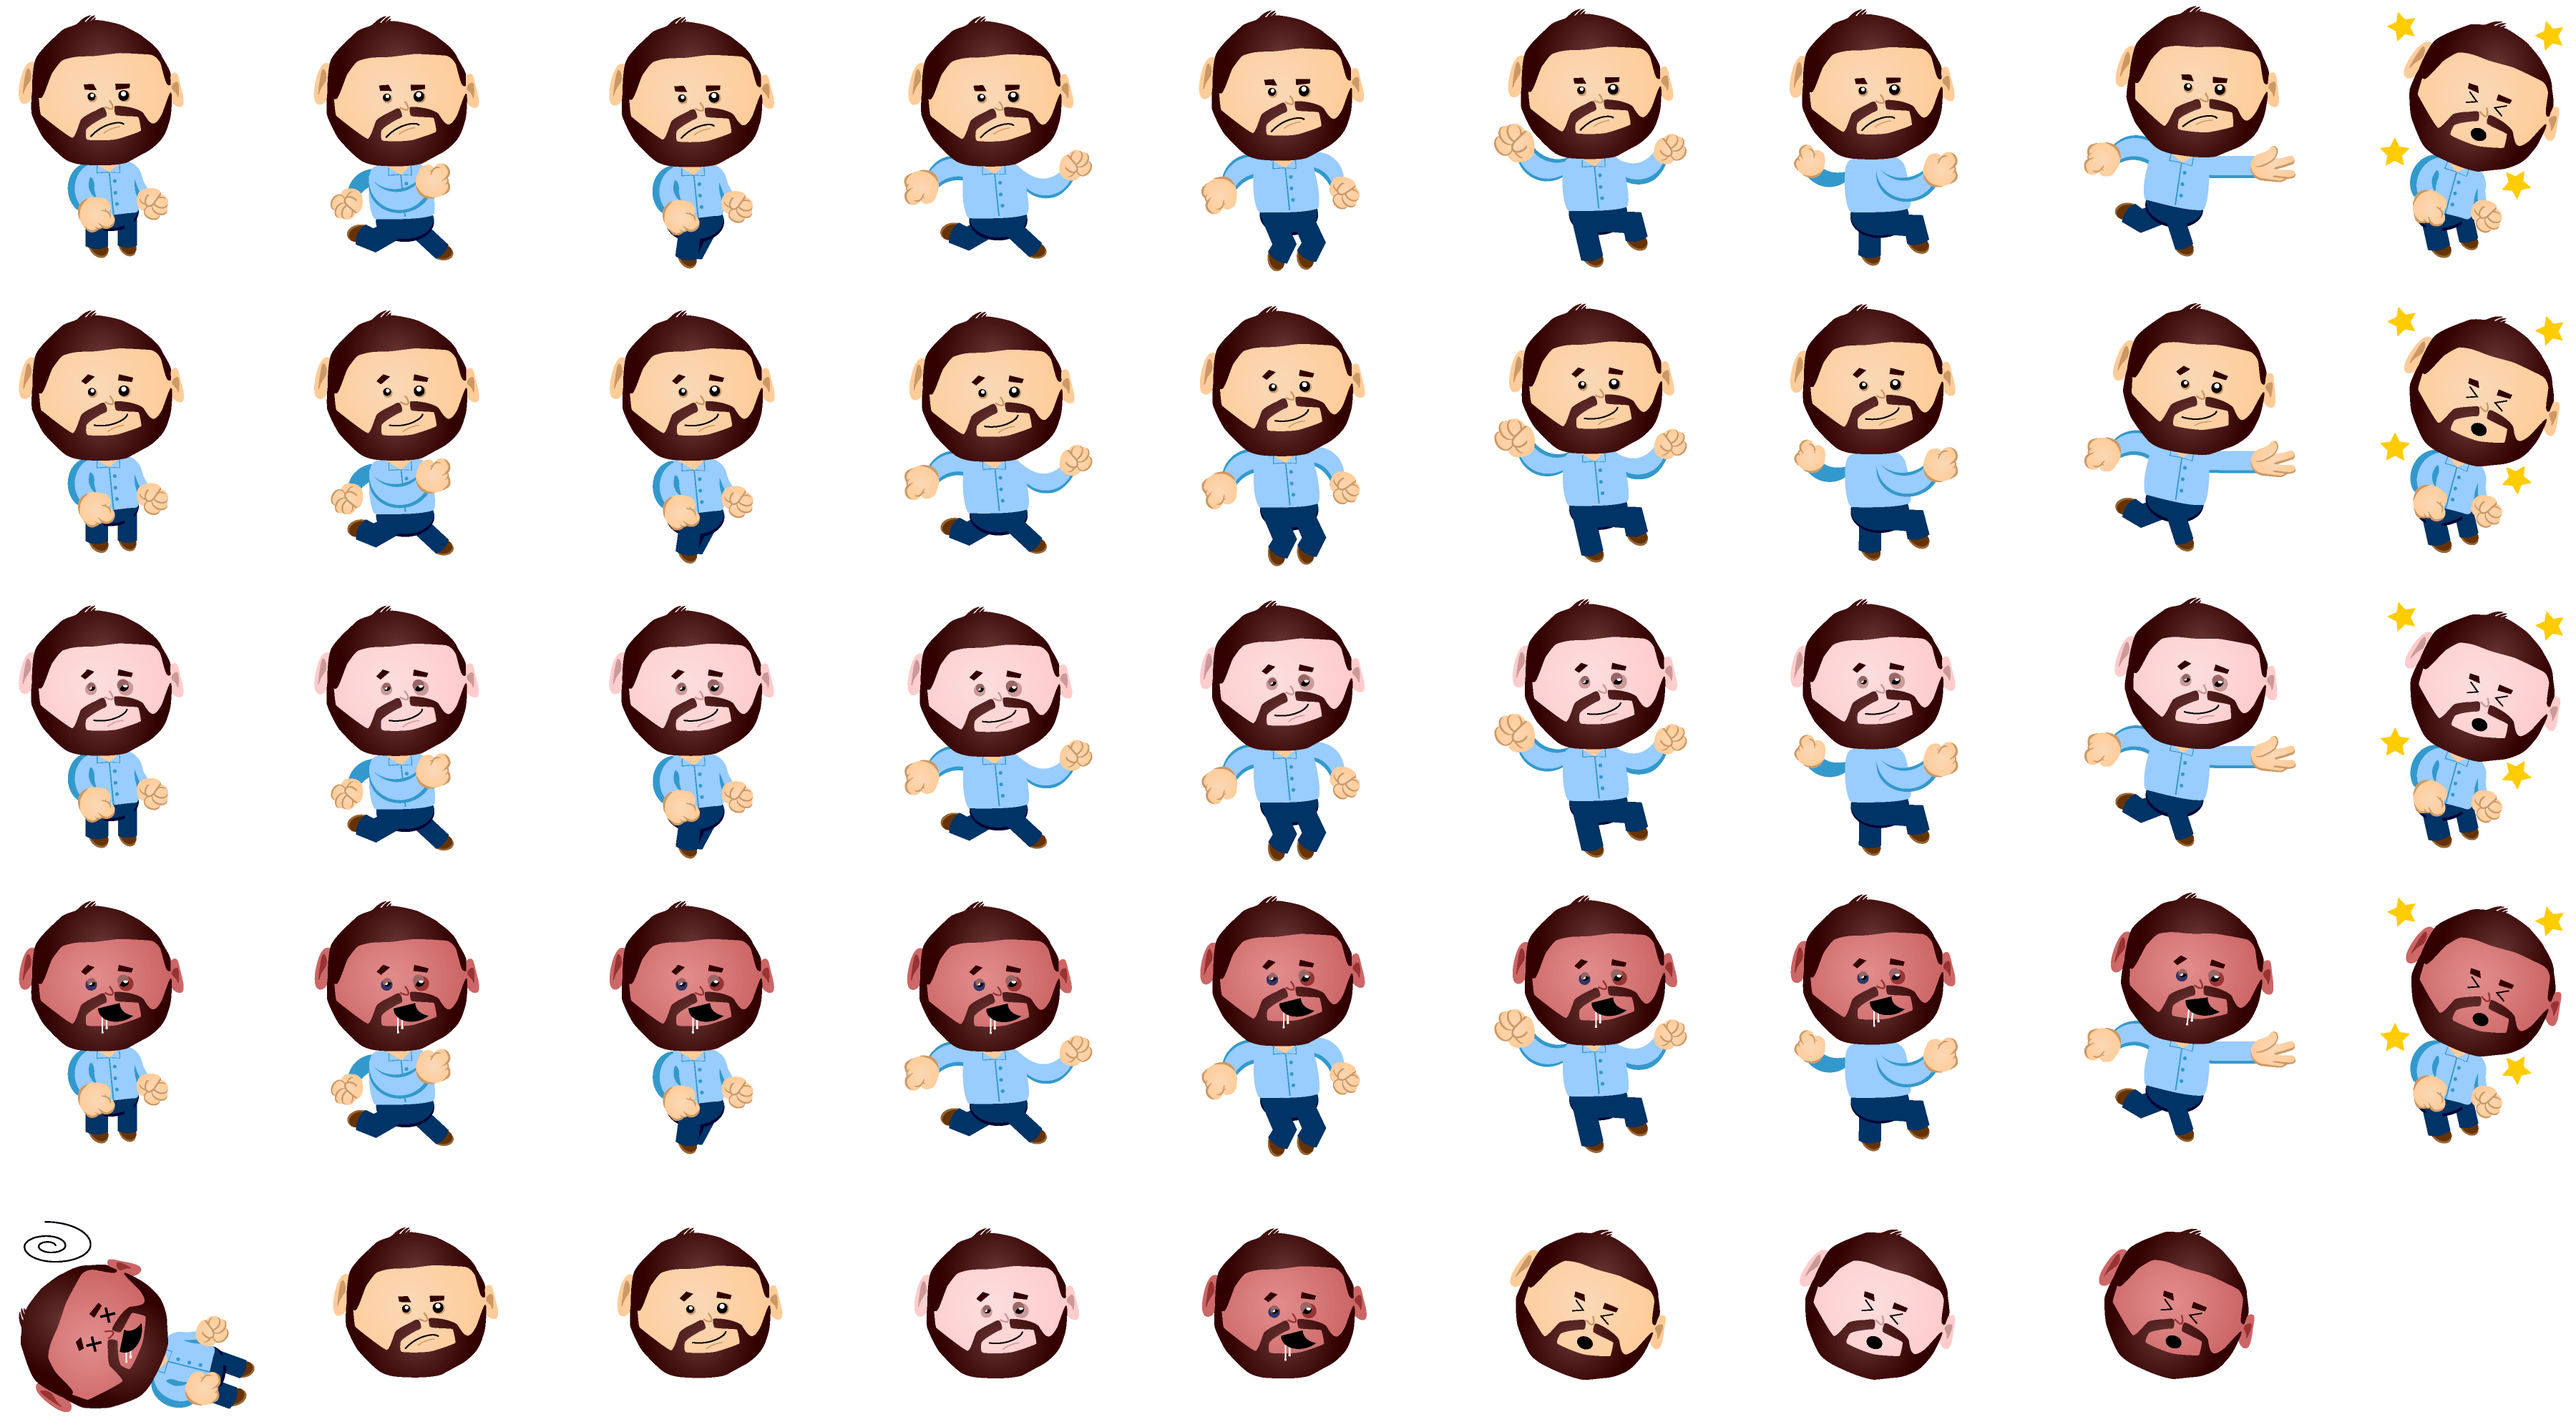
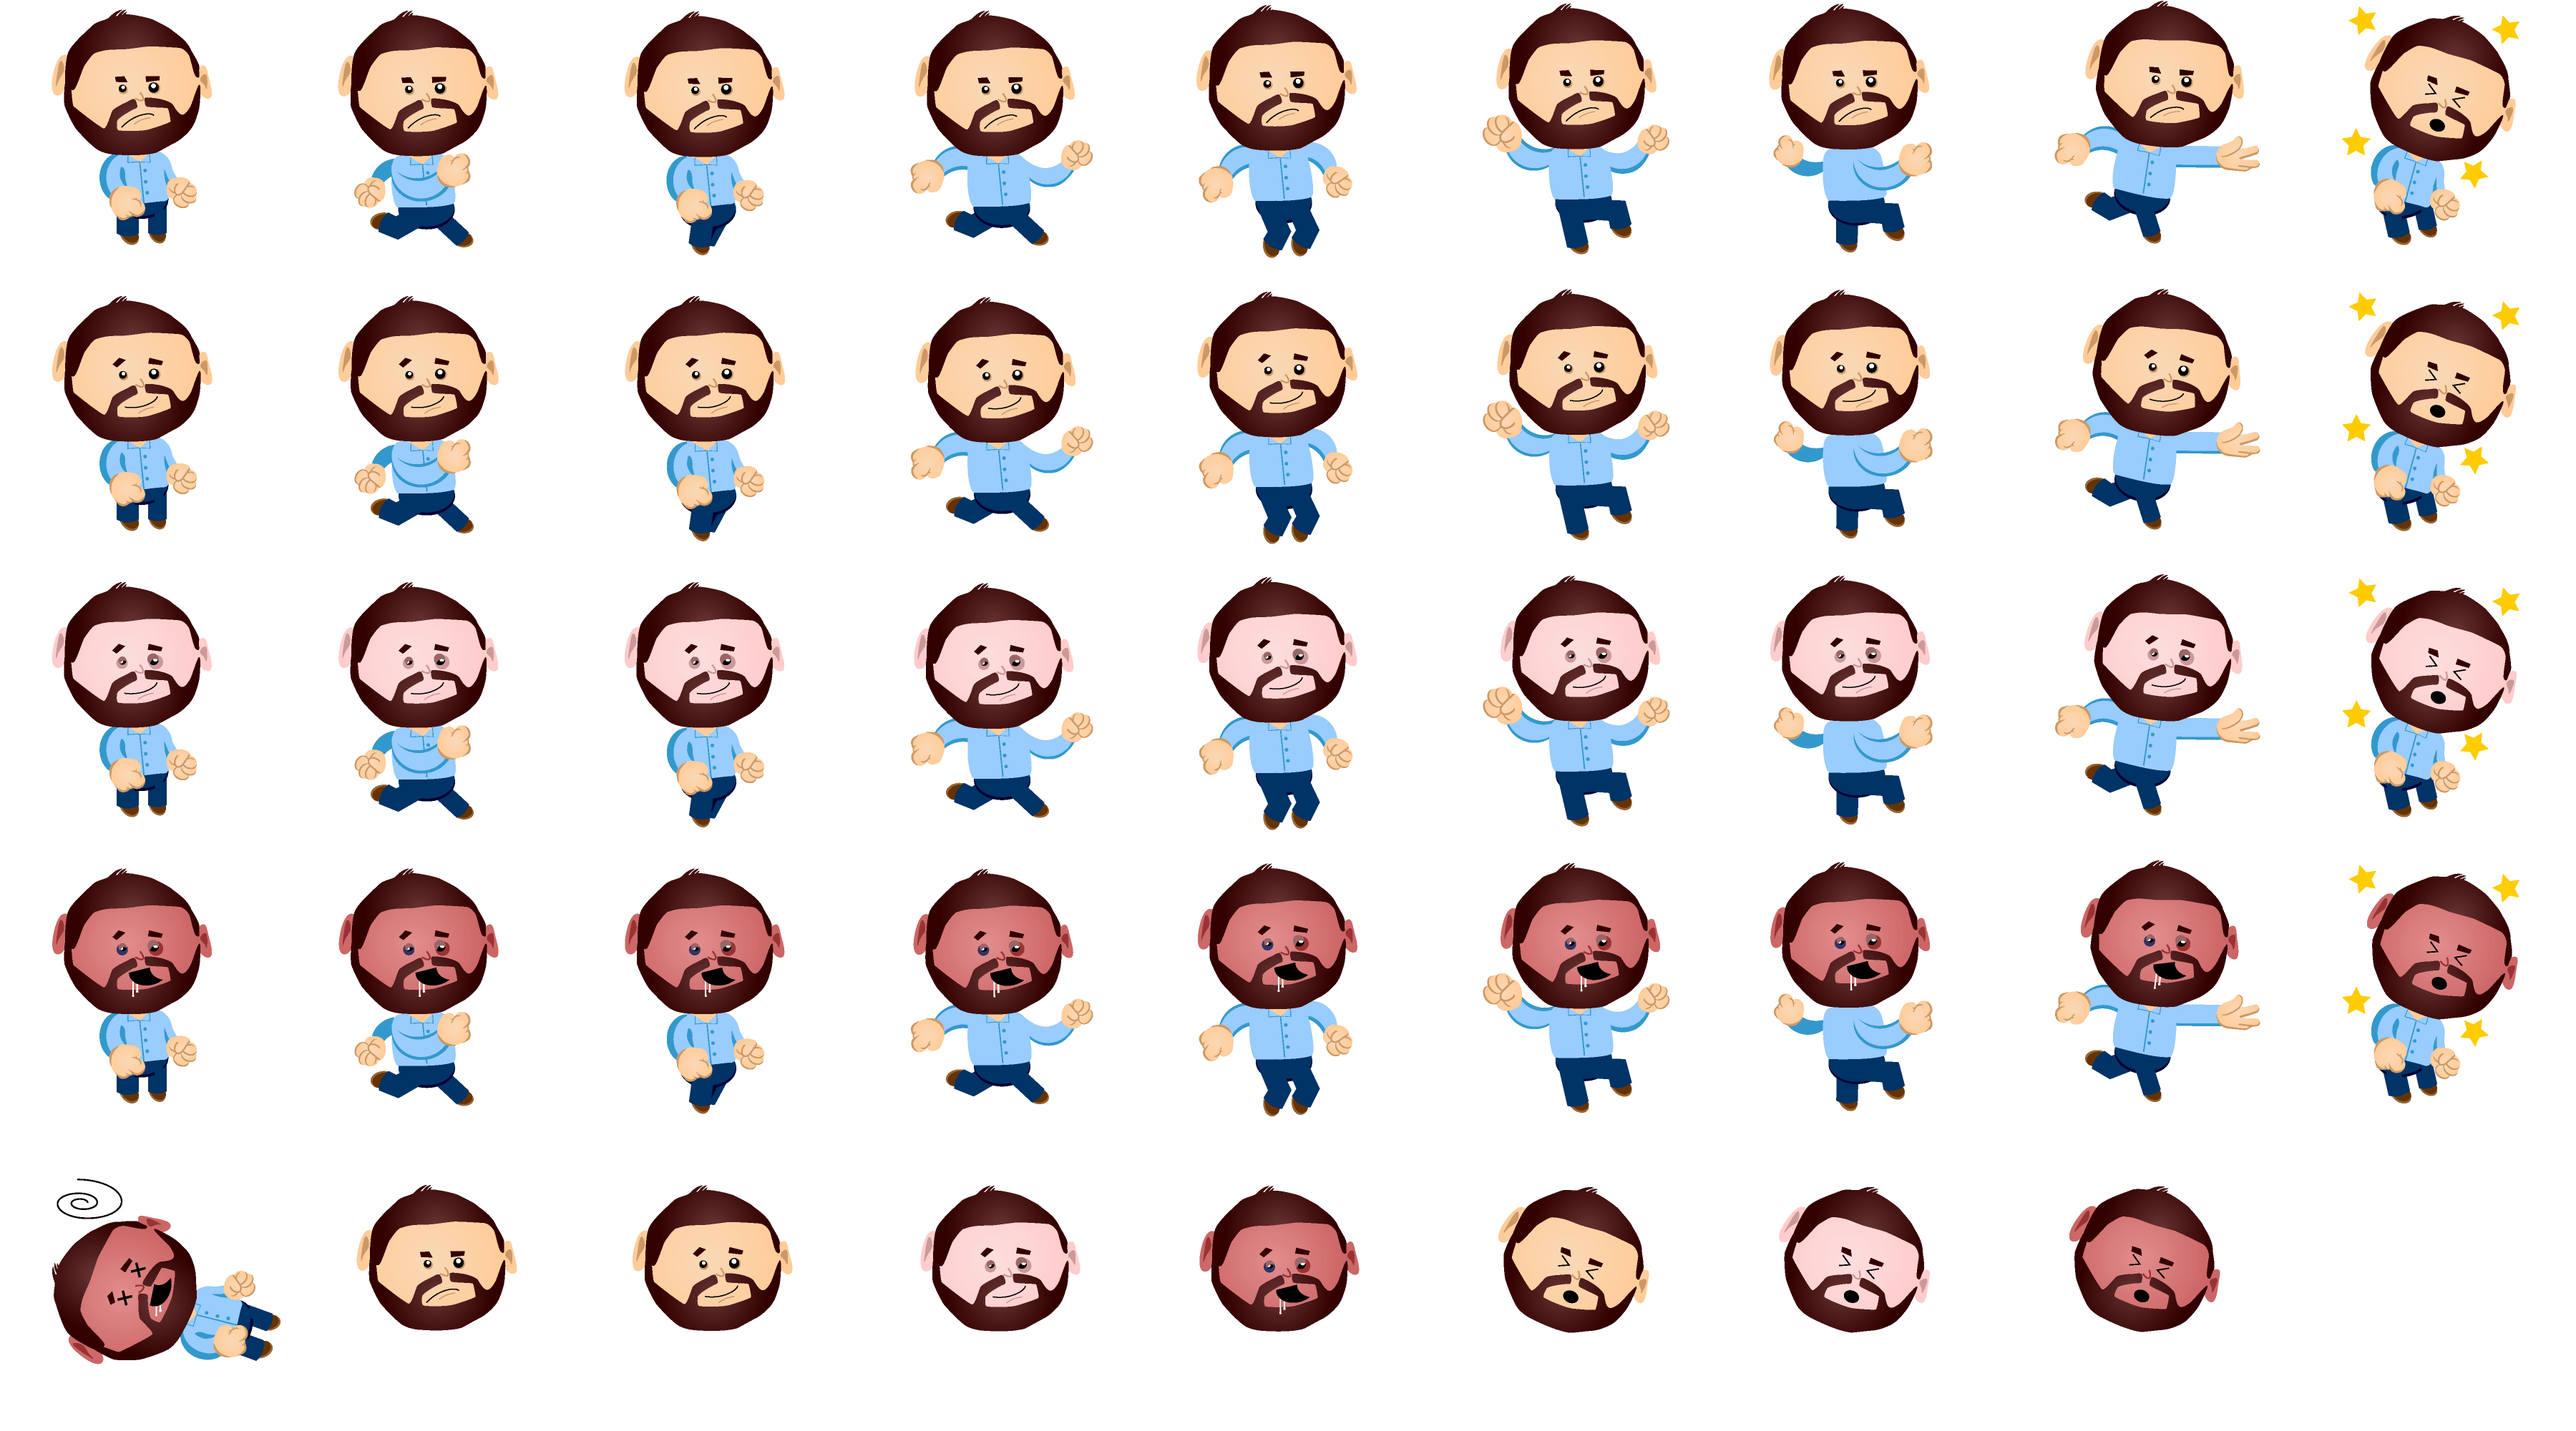
realigning actor sprites

diff --git a/game/core/types/Actor.js b/game/core/types/Actor.js
@@ -64,8 +64,9 @@
     var ctx = this.skin.getContext('2d');
     var scale = canvas.scale;
 
-    this.skin.width = sprite.width * scale;
-    this.skin.height = sprite.height * scale;
+    var dpr = this.skin.dpr = window.devicePixelRatio;
+    this.skin.width = sprite.width * scale * dpr;
+    this.skin.height = sprite.height * scale * dpr;
     this.skin.scale = sprite.scale;
 
     // render to offscreen canvas
@@ -80,15 +81,13 @@
       this[mirror] = this.renderToCanvas(img, sprite, scale, true);
     }
 
-    // DEBUG: render full skin
     /*
-    if (this.entity.state.private.class === 'Platform') {
-      this.skin.width = cached.width;
-      this.skin.height = cached.height;
-    }
+    // DEBUG: render full skin
+    this.skin.width = cached.width;
+    this.skin.height = cached.height;
     */
 
-    ctx.drawImage(cached, 0, 0, cached.width / 2, cached.height / 2);
+    ctx.drawImage(cached, 0, 0);
   };
 
   Actor.prototype.renderToCanvas = function(img, sprite, scale, mirror) {
@@ -96,10 +95,12 @@
     var ctx = buffer.getContext('2d');
 
     var ratio = img.width / img.height;
+    var dpr = this.skin.dpr;
 
-    // TODO: where is this 10 value coming from? is ratio being used correctly?
-    var width = buffer.width = sprite.width * sprite.scale * ratio * scale;
-    var height = buffer.height = sprite.height * sprite.scale * scale;
+    // round to whole pixel
+    // TODO: what is the role of sprite.scale?
+    var width = buffer.width = (sprite.width * sprite.scale * ratio * scale * dpr) + 0.5 | 0;
+    var height = buffer.height = (sprite.height * sprite.scale * scale * dpr) + 0.5 | 0;
 
     if (mirror) {
       ctx.translate(width, 0);
@@ -120,11 +121,11 @@
     var ctx = skin.getContext('2d');
 
     var cached = this.cached;
-    var xShift = this.frame * cached.width / this.xMax / 2
-    var yShift = yStart * cached.height / this.yMax / 2;
+    var xShift = this.frame * cached.width / this.xMax;
+    var yShift = yStart * cached.height / this.yMax;
 
     ctx.clearRect(0, 0, skin.width, skin.height);
-    ctx.drawImage(cached, -xShift, -yShift, cached.width / 2, cached.height / 2);
+    ctx.drawImage(cached, -xShift, -yShift);
   };
 
   Actor.prototype.drawFrame = function(yStart, scale) {
@@ -156,10 +157,10 @@
     }
 
     this.frame = start + delta;
-    xShift = this.frame * cached.width / this.xMax / 2;
-    yShift = yStart * cached.height / this.yMax / 2;
+    xShift = this.frame * cached.width / this.xMax;
+    yShift = yStart * cached.height / this.yMax;
 
-    ctx.drawImage(cached, -xShift, -yShift, cached.width / 2, cached.height / 2);
+    ctx.drawImage(cached, -xShift, -yShift);
   };
 
   Actor.prototype.update = function(yStart, scale) {
@@ -191,6 +192,13 @@
 
   Actor.prototype.draw = function(ctx, x, y, scale) {
     var state = this.entity.state.public;
+
+    var dpr = this.skin.dpr;
+    var width = (this.skin.width / dpr) + 0.5 | 0;
+    var height = (this.skin.height / dpr) + 0.5 | 0;
+
+    var halfWidth = (this.skin.width / dpr / 2) + 0.5 | 0;
+    var halfHeight = (this.skin.height / dpr / 2) + 0.5 | 0;
 
     var yStart = 0;
     var intoxication = state['intoxication'];
@@ -250,7 +258,11 @@
         break;
     }
 
-    ctx.drawImage(this.skin, x, y);
+    if (this.entity.state.private.class === 'Player') {
+      ctx.drawImage(this.skin, x - halfWidth, y - halfHeight + (halfHeight / 5) + 0.5 | 0, width, height);
+    } else {
+      ctx.drawImage(this.skin, x - halfWidth, y - halfHeight, width, height);
+    }
   };
 
   return Actor;

diff --git a/public/js/game/core/types/Actor.js b/public/js/game/core/types/Actor.js
@@ -64,8 +64,9 @@
     var ctx = this.skin.getContext('2d');
     var scale = canvas.scale;
 
-    this.skin.width = sprite.width * scale;
-    this.skin.height = sprite.height * scale;
+    var dpr = this.skin.dpr = window.devicePixelRatio;
+    this.skin.width = sprite.width * scale * dpr;
+    this.skin.height = sprite.height * scale * dpr;
     this.skin.scale = sprite.scale;
 
     // render to offscreen canvas
@@ -80,15 +81,13 @@
       this[mirror] = this.renderToCanvas(img, sprite, scale, true);
     }
 
-    // DEBUG: render full skin
     /*
-    if (this.entity.state.private.class === 'Platform') {
-      this.skin.width = cached.width;
-      this.skin.height = cached.height;
-    }
+    // DEBUG: render full skin
+    this.skin.width = cached.width;
+    this.skin.height = cached.height;
     */
 
-    ctx.drawImage(cached, 0, 0, cached.width / 2, cached.height / 2);
+    ctx.drawImage(cached, 0, 0);
   };
 
   Actor.prototype.renderToCanvas = function(img, sprite, scale, mirror) {
@@ -96,10 +95,12 @@
     var ctx = buffer.getContext('2d');
 
     var ratio = img.width / img.height;
+    var dpr = this.skin.dpr;
 
-    // TODO: where is this 10 value coming from? is ratio being used correctly?
-    var width = buffer.width = sprite.width * sprite.scale * ratio * scale;
-    var height = buffer.height = sprite.height * sprite.scale * scale;
+    // round to whole pixel
+    // TODO: what is the role of sprite.scale?
+    var width = buffer.width = (sprite.width * sprite.scale * ratio * scale * dpr) + 0.5 | 0;
+    var height = buffer.height = (sprite.height * sprite.scale * scale * dpr) + 0.5 | 0;
 
     if (mirror) {
       ctx.translate(width, 0);
@@ -120,11 +121,11 @@
     var ctx = skin.getContext('2d');
 
     var cached = this.cached;
-    var xShift = this.frame * cached.width / this.xMax / 2
-    var yShift = yStart * cached.height / this.yMax / 2;
+    var xShift = this.frame * cached.width / this.xMax;
+    var yShift = yStart * cached.height / this.yMax;
 
     ctx.clearRect(0, 0, skin.width, skin.height);
-    ctx.drawImage(cached, -xShift, -yShift, cached.width / 2, cached.height / 2);
+    ctx.drawImage(cached, -xShift, -yShift);
   };
 
   Actor.prototype.drawFrame = function(yStart, scale) {
@@ -156,10 +157,10 @@
     }
 
     this.frame = start + delta;
-    xShift = this.frame * cached.width / this.xMax / 2;
-    yShift = yStart * cached.height / this.yMax / 2;
+    xShift = this.frame * cached.width / this.xMax;
+    yShift = yStart * cached.height / this.yMax;
 
-    ctx.drawImage(cached, -xShift, -yShift, cached.width / 2, cached.height / 2);
+    ctx.drawImage(cached, -xShift, -yShift);
   };
 
   Actor.prototype.update = function(yStart, scale) {
@@ -191,6 +192,13 @@
 
   Actor.prototype.draw = function(ctx, x, y, scale) {
     var state = this.entity.state.public;
+
+    var dpr = this.skin.dpr;
+    var width = (this.skin.width / dpr) + 0.5 | 0;
+    var height = (this.skin.height / dpr) + 0.5 | 0;
+
+    var halfWidth = (this.skin.width / dpr / 2) + 0.5 | 0;
+    var halfHeight = (this.skin.height / dpr / 2) + 0.5 | 0;
 
     var yStart = 0;
     var intoxication = state['intoxication'];
@@ -250,7 +258,11 @@
         break;
     }
 
-    ctx.drawImage(this.skin, x, y);
+    if (this.entity.state.private.class === 'Player') {
+      ctx.drawImage(this.skin, x - halfWidth, y - halfHeight + (halfHeight / 5) + 0.5 | 0, width, height);
+    } else {
+      ctx.drawImage(this.skin, x - halfWidth, y - halfHeight, width, height);
+    }
   };
 
   return Actor;

diff --git a/game/core/types/Player.js b/game/core/types/Player.js
@@ -22,10 +22,10 @@
     properties.type = properties.type || 'dynamic';
 
     properties.angle = properties.angle ||  0;
-    properties.width = properties.width ||  3;
-    properties.height = properties.height ||  3.4;
+    properties.width = properties.width ||  2.5;
+    properties.height = properties.height ||  3;
     properties.fixed = properties.fixed ||  true;
-    properties.speed = properties.speed ||  310;
+    properties.speed = properties.speed ||  240;
 
     properties.sprite = properties.sprite || {
       direction: 'right',
@@ -34,7 +34,7 @@
       x: 9,
       y: 5,
       step: 8,
-      scale: 10,
+      scale: 5,
       map: {
 
         // default
@@ -377,7 +377,7 @@
     ctx.save();
 
     if (this.actor) {
-      this.actor.draw(ctx, x - halfWidth, y - halfHeight, scale);
+      this.actor.draw(ctx, x, y, scale);
     }
 
     ctx.restore();

diff --git a/public/js/game/core/types/Player.js b/public/js/game/core/types/Player.js
@@ -22,10 +22,10 @@
     properties.type = properties.type || 'dynamic';
 
     properties.angle = properties.angle ||  0;
-    properties.width = properties.width ||  3;
-    properties.height = properties.height ||  3.4;
+    properties.width = properties.width ||  2.5;
+    properties.height = properties.height ||  3;
     properties.fixed = properties.fixed ||  true;
-    properties.speed = properties.speed ||  310;
+    properties.speed = properties.speed ||  240;
 
     properties.sprite = properties.sprite || {
       direction: 'right',
@@ -34,7 +34,7 @@
       x: 9,
       y: 5,
       step: 8,
-      scale: 10,
+      scale: 5,
       map: {
 
         // default
@@ -377,7 +377,7 @@
     ctx.save();
 
     if (this.actor) {
-      this.actor.draw(ctx, x - halfWidth, y - halfHeight, scale);
+      this.actor.draw(ctx, x, y, scale);
     }
 
     ctx.restore();

diff --git a/game/server/socket.js b/game/server/socket.js
@@ -75,7 +75,7 @@
             return;
           }
 
-          if (bouncer.connected.length < 1) {
+          if (bouncer.connected.length < 5) {
             // remove socket from queue and cancel interval
             clearInterval(wait);
             bouncer.queue.splice(index, 1);

diff --git a/game/core/types/Entity.js b/game/core/types/Entity.js
@@ -173,7 +173,7 @@
 
     // round to whole pixel
     // interpolated x and y coords
-    // TODO: dont round until AFTER scale
+    // dont round until AFTER scale
     var x = (this.state.private.x * scale + 0.5) | 0;
     var y = (this.state.private.y * scale + 0.5) | 0;
 

diff --git a/public/js/game/core/types/Entity.js b/public/js/game/core/types/Entity.js
@@ -173,7 +173,7 @@
 
     // round to whole pixel
     // interpolated x and y coords
-    // TODO: dont round until AFTER scale
+    // dont round until AFTER scale
     var x = (this.state.private.x * scale + 0.5) | 0;
     var y = (this.state.private.y * scale + 0.5) | 0;
 

diff --git a/game/core/types/Powerup.js b/game/core/types/Powerup.js
@@ -52,7 +52,7 @@
     ctx.save();
 
     if (this.actor) {
-      this.actor.draw(ctx, x - halfWidth, y - halfHeight, scale);
+      this.actor.draw(ctx, x, y, scale);
     }
 
     ctx.restore();

diff --git a/public/js/game/core/types/Powerup.js b/public/js/game/core/types/Powerup.js
@@ -52,7 +52,7 @@
     ctx.save();
 
     if (this.actor) {
-      this.actor.draw(ctx, x - halfWidth, y - halfHeight, scale);
+      this.actor.draw(ctx, x, y, scale);
     }
 
     ctx.restore();

diff --git a/game/server/levels.js b/game/server/levels.js
@@ -165,7 +165,7 @@
         height: 2,
         x: 2,
         y: 1,
-        scale: 1.2,
+        scale: 0.6,
         map: {
 
           // default
